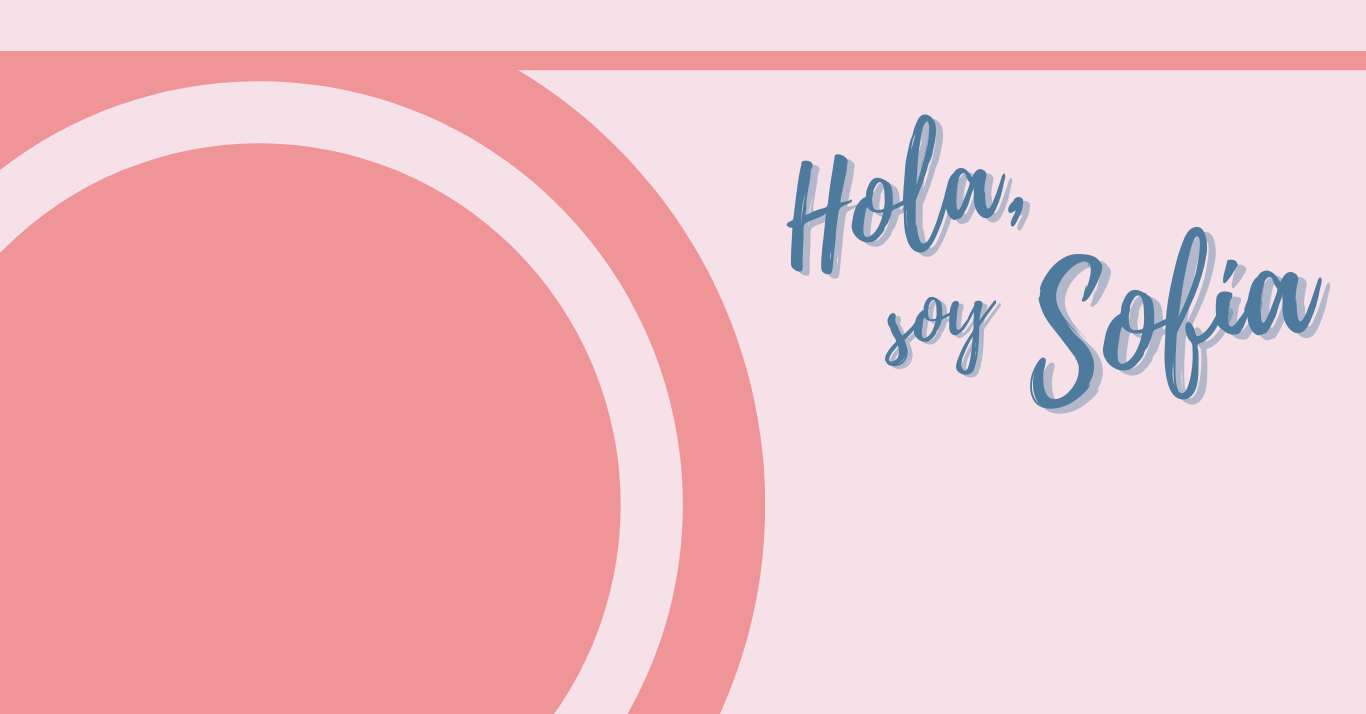
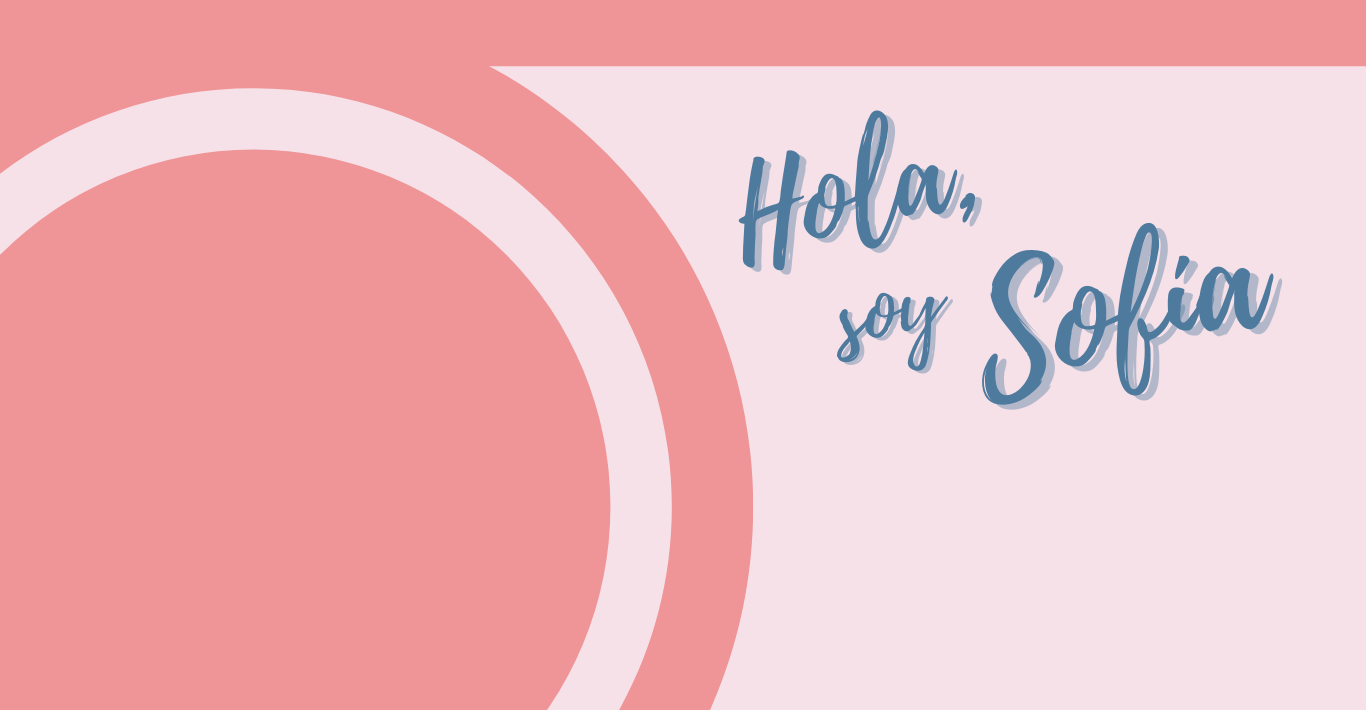
Modo oscuro agregado

diff --git a/estiloindex.css b/estiloindex.css
@@ -1,21 +1,36 @@
+:root {
+    --bg-color-body: #011638;
+    --bg-color-header: #4e7a9e;
+    --text-color-header: #011638;
+    --text-color-body: #ef9597;
+    --image-bg: url(assets/Fondodark.png); 
+    }
+
 body{
-    margin: 0px;
+    margin: 0;
     padding: 0px;
-    background-color: #F6E1E8;
-    background-image: url("assets/Fondo.png");
-    background-repeat: no-repeat;
-    background-position:center;
+    background-color: var(--bg-color-body);
+    color: var(--text-color-body);
+    
 }
 
-.headerr {
+body.dark{
+    --bg-color-body: #F6E1E8;
+    --bg-color-header: #ef9597;
+    --text-color-header: #F6E1E8;
+    --text-color-body: #4e7a9e;
+    --image-bg: url(assets/Fondo.png); 
+}
+
+header {
     margin: 0%;
     padding: 0%;
-    background-color: #ef9597;
     width: 100vw;
-    height: 70px;
-    align-content: center;
-    align-items: center;
-    justify-content: center;
+    height: 715px;
+    display: block;
+    background: var(--image-bg);
+    background-repeat: no-repeat;
+    background-position:center;
 }
 
 .encabezado{
@@ -27,8 +42,7 @@ body{
     align-content: center;
     margin: 0;
     padding: 0;
-    background-color: #ef9597;
-    position: fixed;
+    background-color: var(--bg-color-header);
 }
 
 .argprog{
@@ -40,13 +54,13 @@ body{
 }
 
 .logo{
-    height: 70px;
+    height: 50px;
     margin-left: 20px;
     position: relative;
 }
 
 #palabrasheader{
-    color: #F6E1E8;
+    color: var(--text-color-header);
     font-size: 15px;
     font-weight: bold;
     font-family: "Poppins",sans-serif;
@@ -54,25 +68,84 @@ body{
 }
 
 .linea {
-    color: #F6E1E8;
+    color: var(--text-color-header);
     height: 30px;
-    border: 1px solid #F6E1E8;
+    border: 1px solid var(--text-color-header);
 }
 
 .switches{
     margin-right: 45px;
     display: flex;
     align-items: center;
+    align-content: center;
     justify-content: space-evenly;
 }
 
-.icons{
-    height: 30px;
-    width: 30px;
-    margin-left: 10px;
-    color: #F6E1E8;
+.toggle-theme_icons{
+    height: 20px;
+    width: 20px;
+    cursor: pointer;    
 }
 
-.icons:hover {
+.toggle-theme_icons:hover {
     transform: scale(1.1);
 }
+
+.menu{
+    display: flex;
+    align-items: center;
+    align-content: center;
+    justify-content: center;
+    justify-items: center;
+    margin: 0px;
+    padding: 0px;
+}
+
+.menulista{
+    align-items: center;
+    align-content: center;
+    justify-content: space-between;
+    justify-items: center;
+    margin: 0%;
+    padding: 0%;
+}
+
+.menulista li {
+    display: inline;
+}
+
+.menu_items {
+    text-decoration: none;
+    margin-left: 10px;
+    margin-right: 10px;
+    font-family: 'Poppins', sans-serif;
+    font-weight: bold;
+    color: var(--text-color-header);
+    cursor: pointer;
+}
+
+.menu_items:hover {
+    color: var(--text-color-body);
+}
+
+.introduccion {
+    display: flex;
+    margin:0%;
+    padding: 0%;
+    align-items: center;
+    justify-content: space-between;
+}
+
+.introduccion-fuente {
+    font-family: 'Courier New', Courier, monospace;
+    font-weight: 550;
+    font-size: larger;
+    color: var(--text-color-body);
+    margin-right: 120px;
+    margin-top: 130px;
+}
+
+#avatar {
+    margin-top: 15px;
+}
+

diff --git a/index.html b/index.html
@@ -1,31 +1,48 @@
 <!DOCTYPE html>
-<html lang="en">
+<html lang="es">
 <head>
     <meta charset="UTF-8">
     <meta http-equiv="X-UA-Compatible" content="IE=edge">
     <meta name="viewport" content="width=device-width, initial-scale=1.0">
     <title>Portfolio Sofia Katuchin</title>
     <link rel="stylesheet" href="estiloindex.css"/>
-    <script src="app.js"></script>
     <script src="https://kit.fontawesome.com/96c421b159.js" crossorigin="anonymous"></script>
 </head>
-<body>
-    <header class="headerr">
-        <div class="encabezado">
+<body class="dark">
+    <header class="header">
+        <nav class="encabezado">
             <div class="argprog">
-                <a href="https://argentinaprograma.inti.gob.ar/" target="_blank"><img class="logo" src="assets/APLogo.png" alt="logo Argentina Programa"></a>
+                <a href="https://argentinaprograma.inti.gob.ar/" target="_blank"><img id="toggle-logoAP" class="logo" src="assets/APLogorosa.png" alt="logo Argentina Programa"></a>
                 <div><i class="fa-solid fa-pipe linea"></i></div>
                 <span id="palabrasheader">#YoProgramo</span>
             </div>
+            <div class="menu">
+                <ul class="menulista">
+                    <li><a class="menu_items" href="#">Inicio</a></li>
+                    <li><a class="menu_items" href="#">Sobre mi</a></li>
+                    <li><a class="menu_items" href="#">Educación</a></li>
+                    <li><a class="menu_items" href="#">Hards Skills & Soft Skills</a></li>
+                    <li><a class="menu_items" href="#">Experiencia</a></li>
+                    <li><a class="menu_items" href="https://www.webcodzing.com/">Proyectos</a></li>
+                </ul>
+            </div>
             <div class="switches">
-                <div class="toggle-thin">
-                    <img class="icons" src="assets/luna-creciente.png" alt="Luna modo oscuro">
-                    <img class="icons" src="assets/abajo.png" alt="Menu despegable">
+                <div id="toggle-theme" class="toggle-theme">
+                    <img id="toggle-theme_icons" src="assets/luna-creciente.png" class="toggle-theme_icons">
                 </div>
                 
             </div>
+        </nav>
+        <div class="introduccion">
+            <img id="avatar" src="assets/ReadyPlayerMe-Avatar2.png" alt="Avatar Sofia Katuchin">
+            <div>
+                <p class="introduccion-fuente">Desarrollador Full Stack Junior</p>
+            </div>
         </div>
     </header>
-    <img src="assets/ReadyPlayerMe-Avatar2.png" alt="Avatar Sofia Katuchin">
+    <main>
+
+    </main>
+    <script src="app.js"></script>
 </body>
 </html>

diff --git a/app.js b/app.js
@@ -1,0 +1,17 @@
+const toggleTheme = document.getElementById("toggle-theme");
+const toggleIcon = document.getElementById("toggle-theme_icons");
+const toggleLogo = document.getElementById("toggle-logoAP");
+
+toggleTheme.addEventListener("click", () => {
+    document.body.classList.toggle("dark");
+    if(toggleIcon.src.includes("luna-creciente.png")){
+        toggleIcon.src="assets/sun.png";
+    } else {
+        toggleIcon.src="assets/luna-creciente.png";
+    }
+    if(toggleLogo.src.includes("APLogorosa.png")){
+        toggleLogo.src="assets/APLogoazul.png";
+    } else {
+        toggleLogo.src="assets/APLogorosa.png";
+    }
+});
